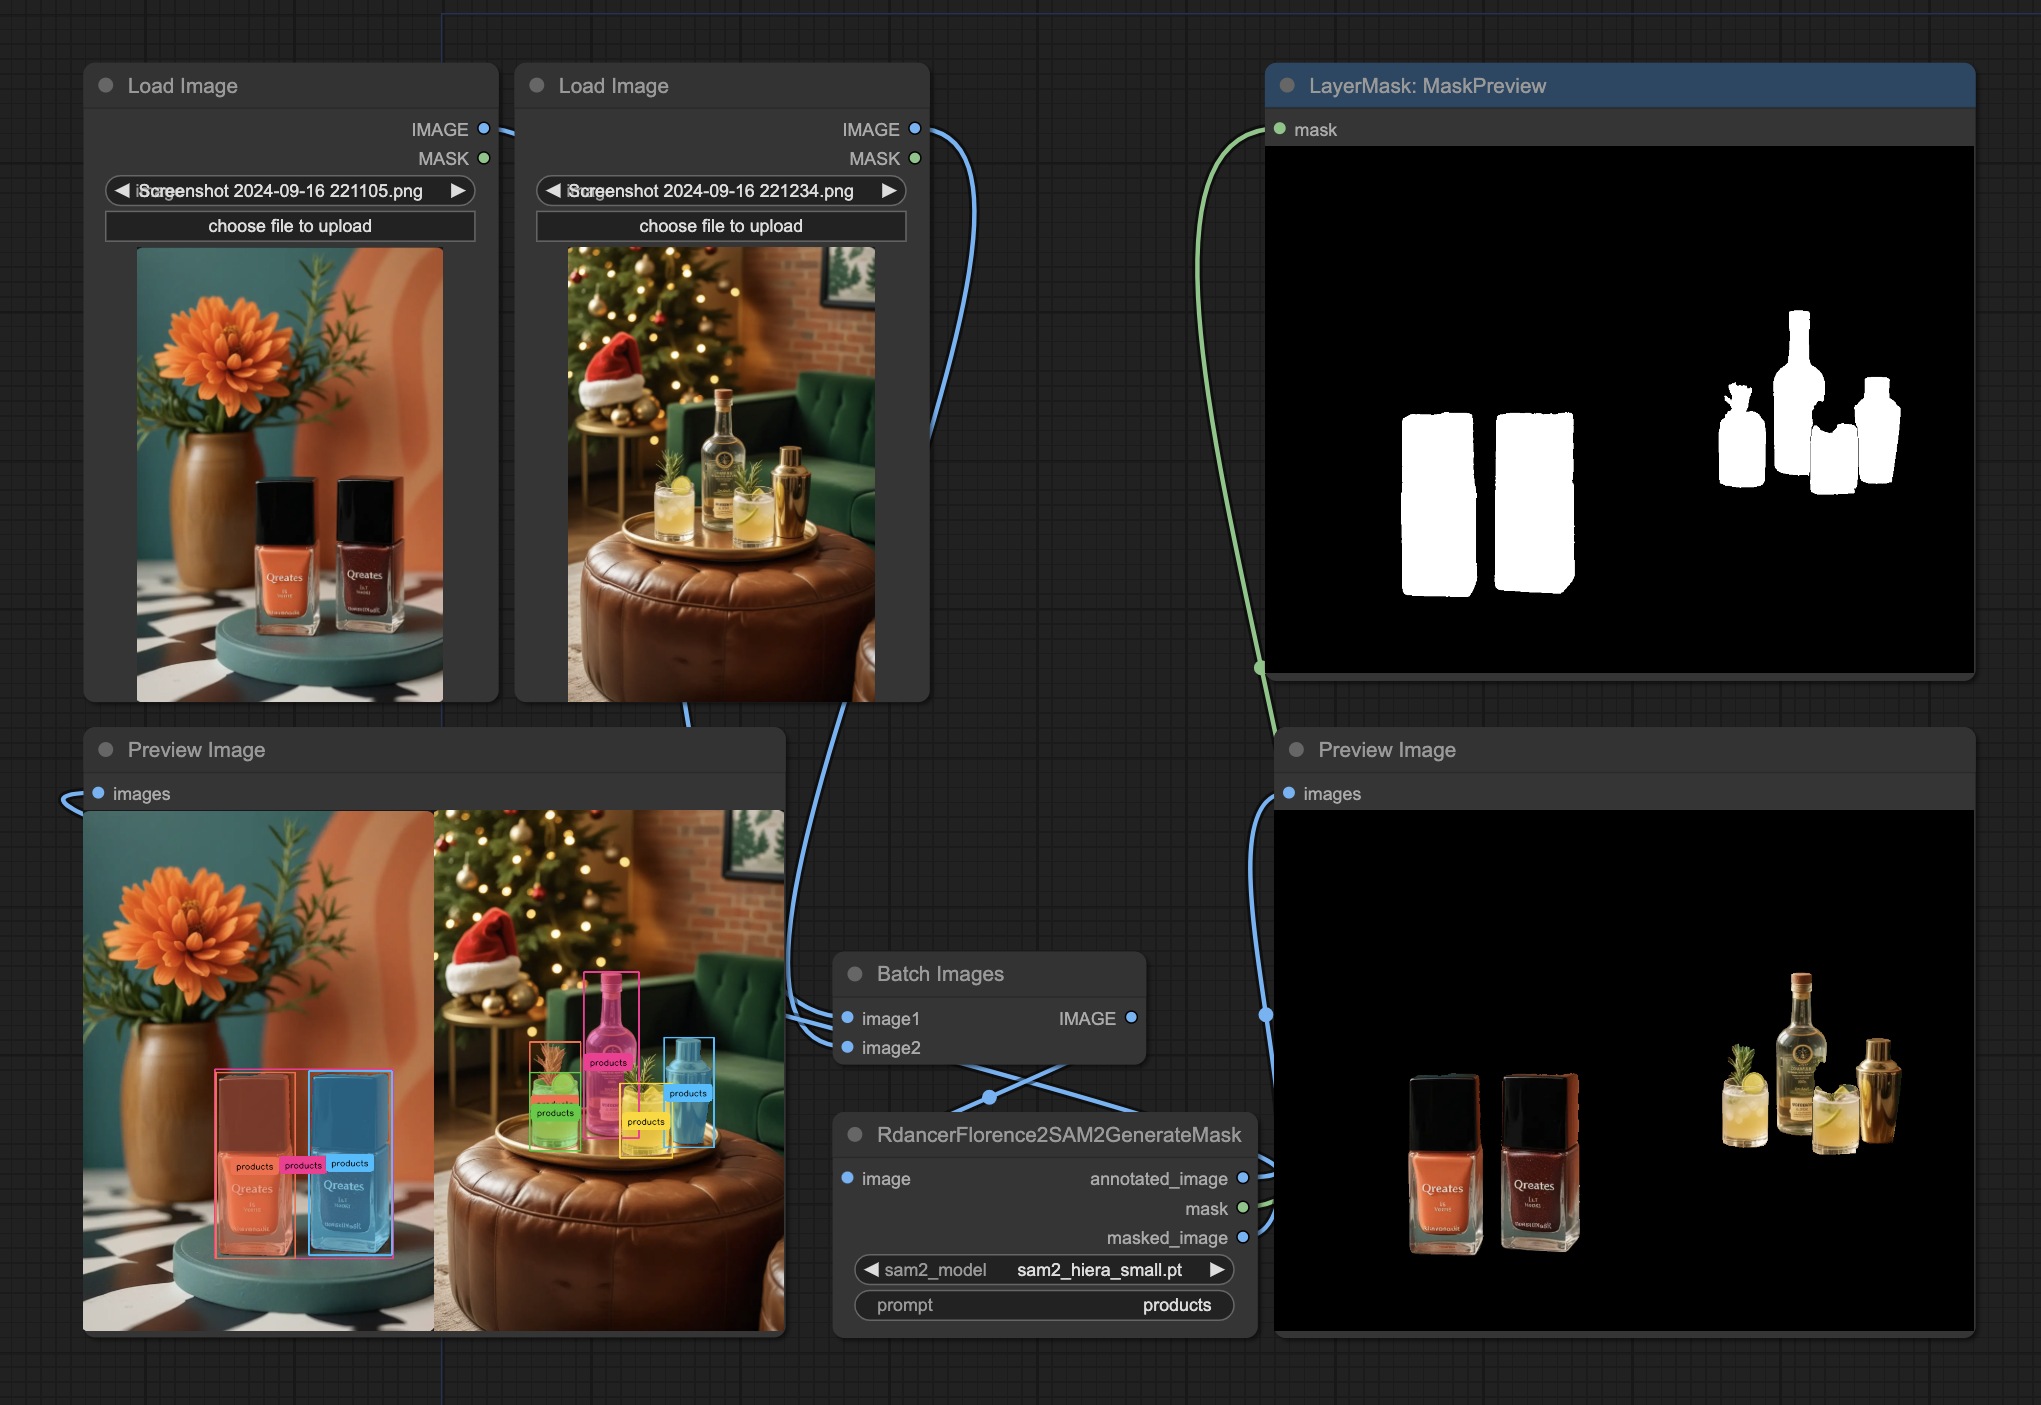
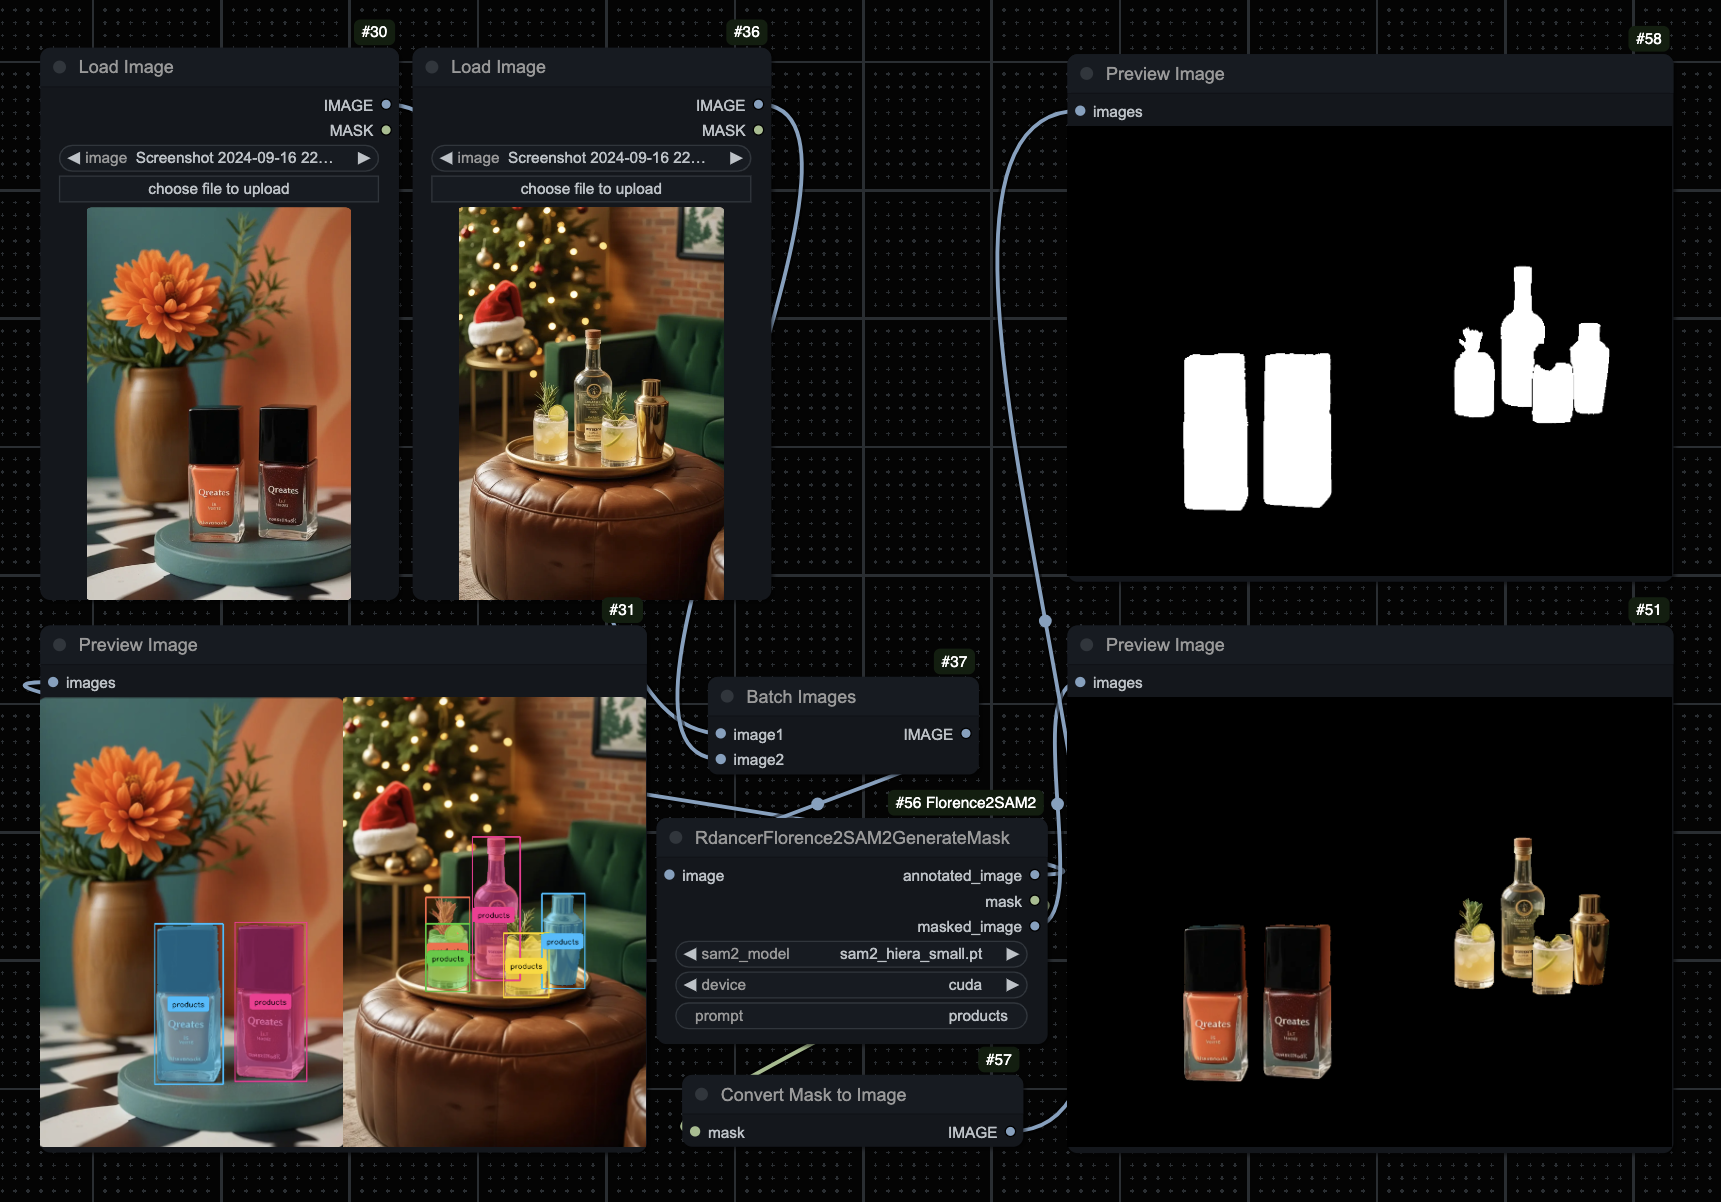
allow to select device
this should fix the problem of not being able to run the node on Windows
-- just select device: "cpu" in the dropdown

diff --git a/app.py b/app.py
@@ -70,7 +70,7 @@ except ImportError:
 # VIDEO_TARGET_DIRECTORY = "tmp"
 # create_directory(directory_path=VIDEO_TARGET_DIRECTORY)
 
-DEVICE = torch.device("cuda")
+DEVICE = None #torch.device("cuda")
 # DEVICE = torch.device("cpu")
 
 torch.autocast(device_type="cuda", dtype=torch.bfloat16).__enter__()
@@ -112,10 +112,16 @@ def annotate_image(image, detections):
 #         gr.Textbox(visible=text == IMAGE_CAPTION_GROUNDING_MASKS_MODE),
 #     ]
 
-def lazy_load_models(sam_image_model: str):
+def lazy_load_models(device: torch.device, sam_image_model: str):
     global SAM_IMAGE_MODEL
     global FLORENCE_MODEL
     global FLORENCE_PROCESSOR
+    global DEVICE
+    if device != DEVICE:
+        SAM_IMAGE_MODEL = None
+        FLORENCE_MODEL = None
+        FLORENCE_PROCESSOR = None
+        DEVICE = device
     if SAM_IMAGE_MODEL is None: 
         SAM_IMAGE_MODEL = load_sam_image_model(device=DEVICE, checkpoint=sam_image_model)
     elif SAM_IMAGE_MODEL != sam_image_model:
@@ -124,8 +130,8 @@ def lazy_load_models(sam_image_model: str):
     if FLORENCE_MODEL is None or FLORENCE_PROCESSOR is None:
         FLORENCE_MODEL, FLORENCE_PROCESSOR = load_florence_model(device=DEVICE)
 
-def process_image(sam_image_model: str, image: Image.Image, promt: str) -> Tuple[Optional[Image.Image], Optional[Image.Image], Optional[Image.Image]]:
-    lazy_load_models(sam_image_model)
+def process_image(device: torch.device, sam_image_model: str, image: Image.Image, promt: str) -> Tuple[Optional[Image.Image], Optional[Image.Image], Optional[Image.Image]]:
+    lazy_load_models(device, sam_image_model)
     annotated_image, mask_list = _process_image(IMAGE_OPEN_VOCABULARY_DETECTION_MODE, image, promt)
     if mask_list is not None and len(mask_list) > 0:
         mask = np.any(mask_list, axis=0) # Merge masks into a single mask

diff --git a/__init__.py b/__init__.py
@@ -53,9 +53,11 @@ class F2S2GenerateMask:
     def INPUT_TYPES(cls):
         model_list = list(sam_model_to_config_map.keys())
         model_list.sort()
+        device_list = ["cuda", "cpu"]
         return {
             "required": {
                 "sam2_model": (model_list, {"default": "sam2_hiera_small.pt"}),
+                "device": (device_list,),
                 "image": ("IMAGE",),
                 "prompt": ("STRING", {"default": "subject"}),
             }
@@ -66,14 +68,15 @@ class F2S2GenerateMask:
     FUNCTION = "_process_image"
     CATEGORY = "💃rDancer"
 
-    def _process_image(self, sam2_model: str, image: torch.Tensor, prompt: str = None):
+    def _process_image(self, sam2_model: str, device: str, image: torch.Tensor, prompt: str = None):
+        torch_device = torch.device(device)
         prompt = prompt.strip() if prompt else ""
         annotated_images, masks, masked_images = [], [], []
         # Convert image from tensor to PIL
         # the image has an extra batch dimension, despite the variable name
         for img in image:
             img = tensor2pil(img).convert("RGB")
-            annotated_image, mask, masked_image = process_image(sam2_model, img, prompt)
+            annotated_image, mask, masked_image = process_image(torch_device, sam2_model, img, prompt)
             annotated_images.append(pil2tensor(annotated_image))
             masks.append(pil2tensor(mask))
             masked_images.append(pil2tensor(masked_image))
